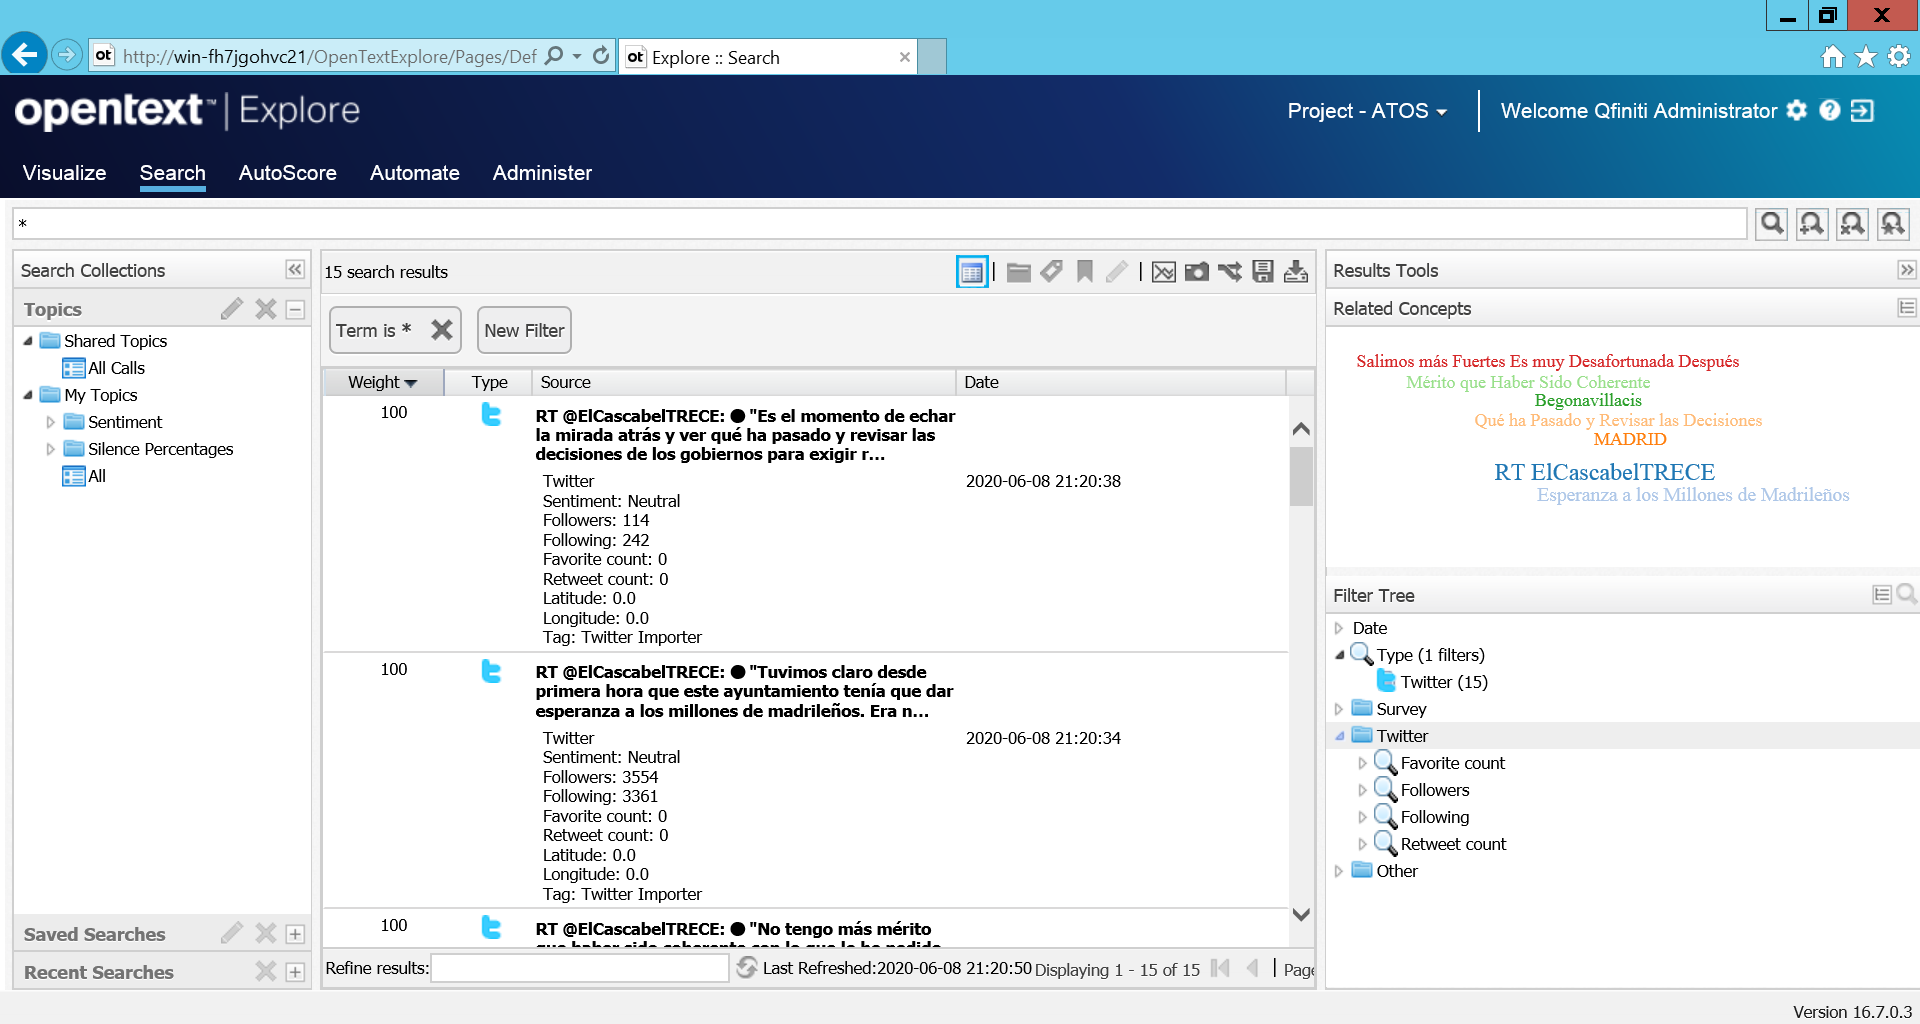
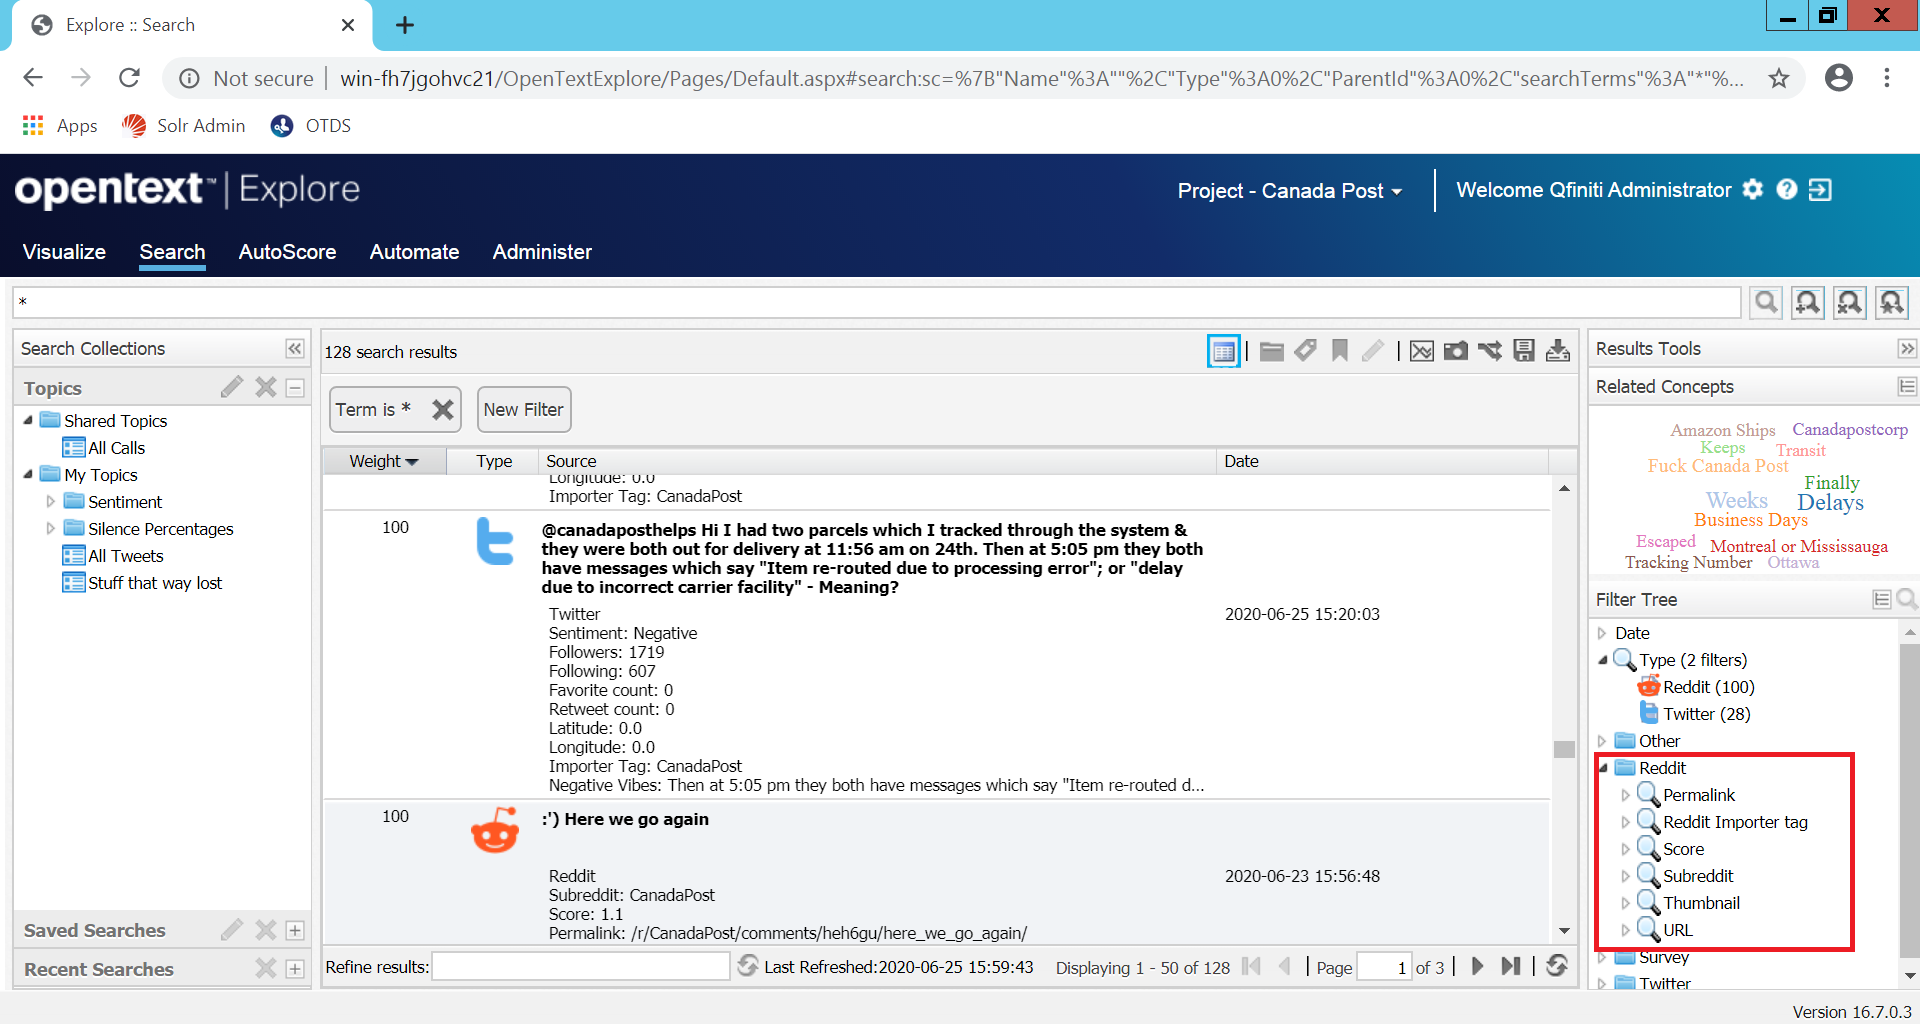
New screenshots

Changed region(s): [[0.0, 0.0, 1.0, 0.9688], [0.9375, 0.9688, 1.0, 1.0], [0.1875, 0.625, 0.2188, 0.6562]]

diff --git a/README.md b/README.md
@@ -199,7 +199,7 @@ We must add a new **Group** tag under the **<DoCriteriaItemscTypes>** in Explore
   
   </CriteriaItems>    
 ```
-![alt text](img/explore-groups.png "Twitter groups")
+![alt text](img/explore_groups.png "Reddit group")
 
 ### schema.xml (Solr)
 
